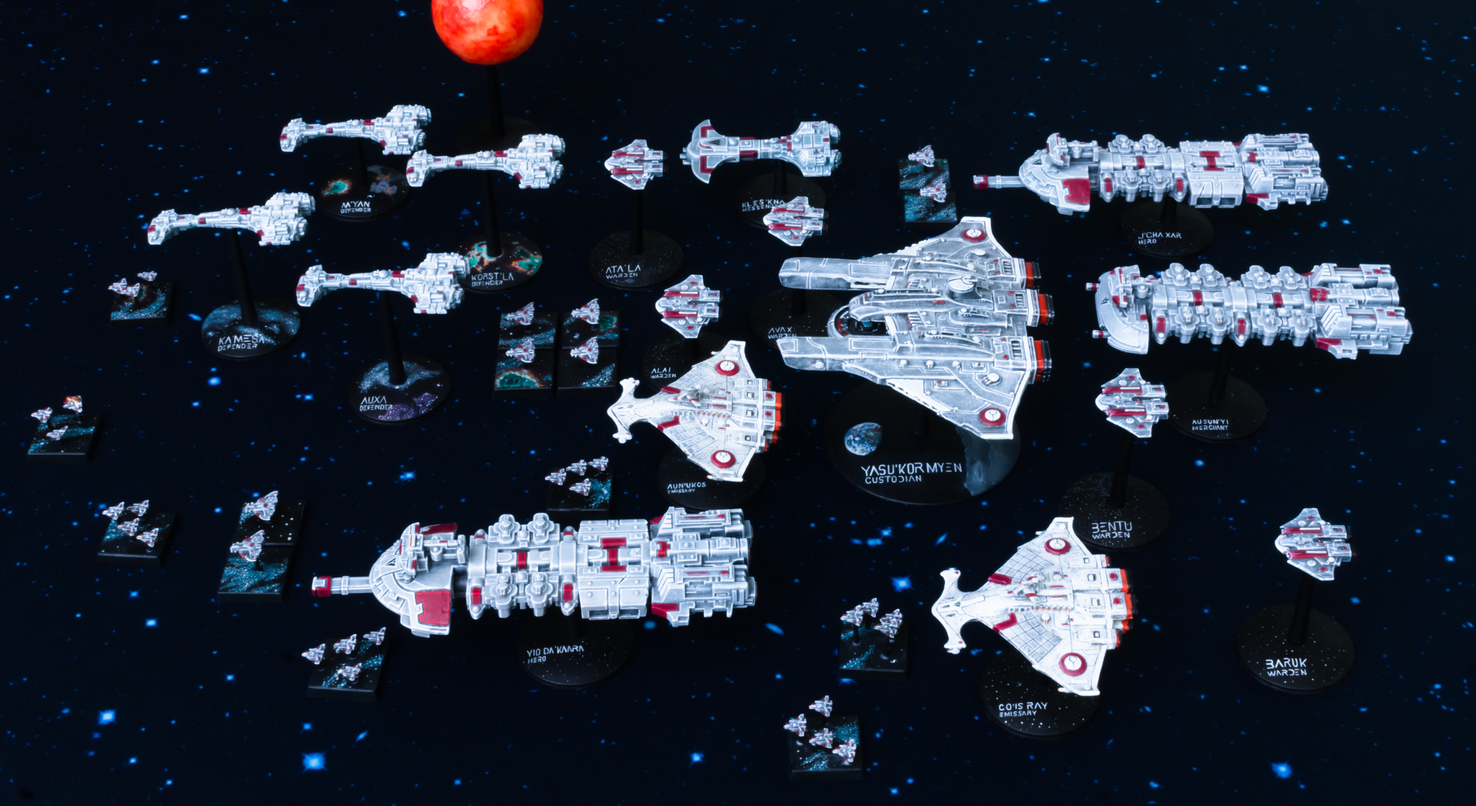
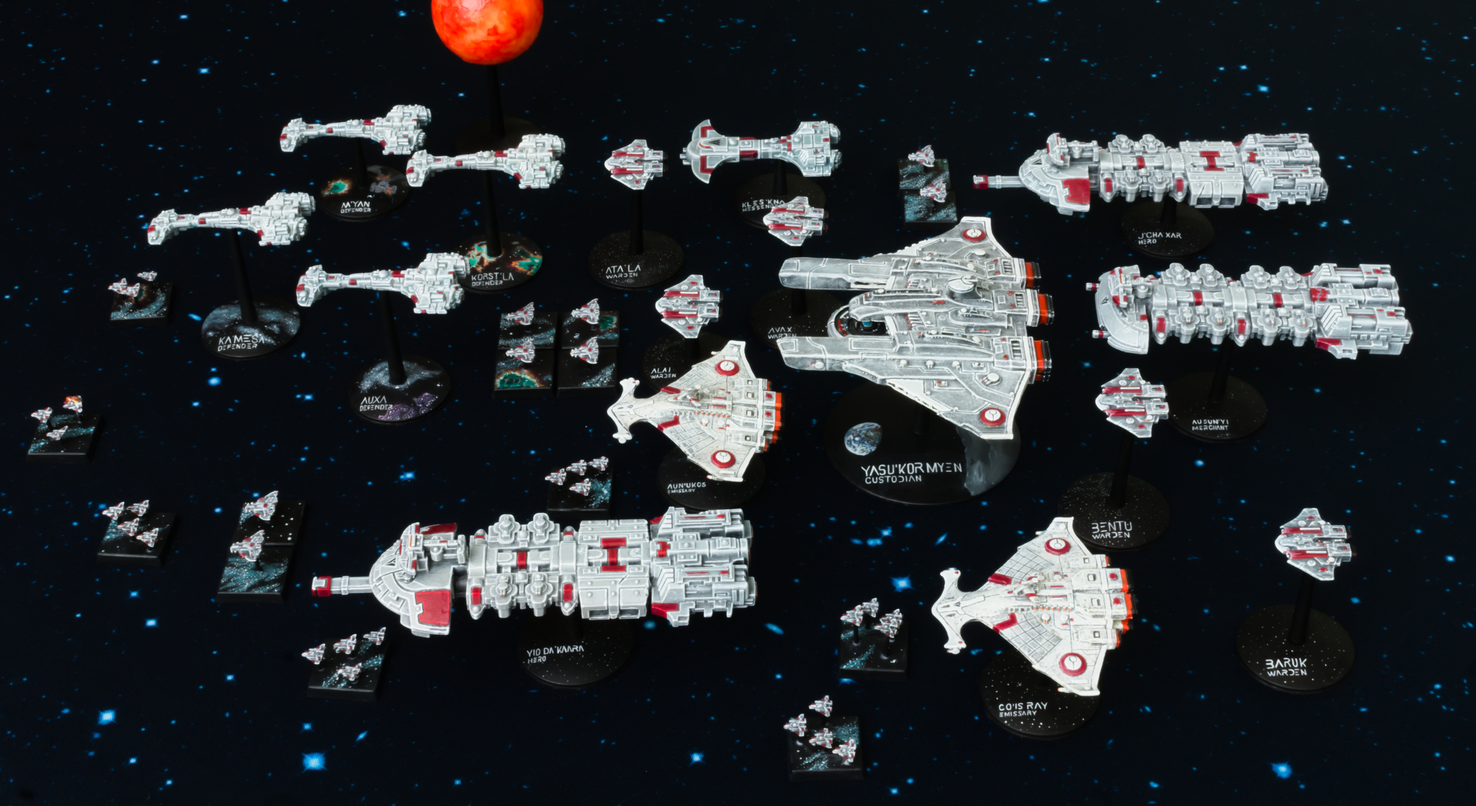
Softer white balance on the fleet

diff --git a/content/battlefleet-gothic/index.md b/content/battlefleet-gothic/index.md
@@ -1,6 +1,6 @@
 ---
 date: 2025-01-23
-featured_image: bfg-battle.jpg
+featured_image: z-bfg-battle.jpg
 title: SPACESHIPS!
 description: Battlefleet Gothic toys. I adore these minis, even though the sculpts don't tend to suit my stengths. On the other hand, the bases give a wonderful canvas for  indulgent freehand work and that absolutely is my wheelhouse.
 #type: gallery
